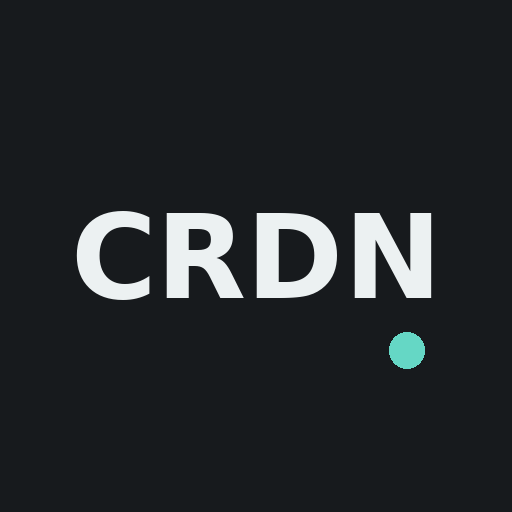
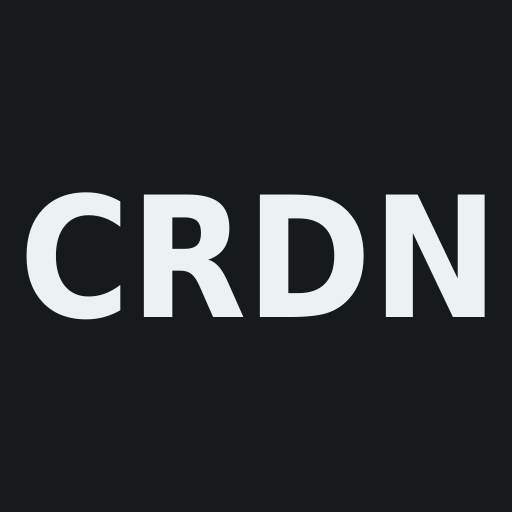
Publish CRDN source snapshot

Changed region(s): [[0.5, 0.375, 0.9688, 0.7188], [0.0312, 0.375, 0.4688, 0.625]]

diff --git a/crdn/web/auth.js b/crdn/web/auth.js
@@ -105,7 +105,7 @@
   document.body.append(notice, dialog);
   const settingsForm = document.createElement('form');
   settingsForm.className = 'auth-form server-settings';
-  settingsForm.innerHTML = '<h3>Название сервера</h3><label>Название сервера<input name="server_name" autocomplete="off" placeholder="До 12 символов"></label><p class="auth-error" role="status"></p><div class="auth-controls"><button type="button" data-later>Позже</button><button type="submit" class="auth-primary">Сохранить</button></div>';
+  settingsForm.innerHTML = '<h3>Название сервера</h3><label>Название сервера<input name="server_name" autocomplete="off" placeholder="До 24 символов" aria-describedby="server-name-status"></label><p id="server-name-status" class="auth-error name-status" role="status"></p><div class="auth-controls"><button type="button" data-later>Позже</button><button type="submit" class="auth-primary">Сохранить</button></div>';
   dialog.insertBefore(settingsForm, dialog.querySelector('.account-section'));
   const themeSection = document.createElement('section');
   themeSection.className = 'settings-section theme-setting';
@@ -114,19 +114,28 @@
   themeSection.querySelectorAll('button').forEach(b => b.onclick = () => { window.crdnApplyTheme(b.dataset.theme); syncTheme(); });
   dialog.insertBefore(themeSection, settingsForm); syncTheme();
   settingsForm.querySelector('[data-later]').onclick = () => dialog.close();
+  const nameInput = settingsForm.elements.server_name;
+  const nameStatus = settingsForm.querySelector('.name-status');
+  function nameError(message) { nameStatus.dataset.state = 'error'; nameStatus.textContent = message; }
+  function updateNameStatus(prefix = '') {
+    const remaining = 24 - [...nameInput.value].length;
+    if (remaining < 0) { nameError('Превышено на ' + (-remaining) + ' символов. Максимум 24.'); return; }
+    nameStatus.dataset.state = 'ready';
+    nameStatus.textContent = prefix + 'Осталось ' + remaining + ' символов';
+  }
+  nameInput.addEventListener('input', () => updateNameStatus());
   settingsForm.onsubmit = async event => {
     event.preventDefault();
-    const status = settingsForm.querySelector('[role="status"]');
     const name = settingsForm.elements.server_name.value;
-    if ([...name].length > 12) { status.textContent = 'Не более 12 символов, включая пробелы.'; return; }
+    if ([...name].length > 24) { nameError('Не более 24 символов, включая пробелы.'); return; }
     const button = settingsForm.querySelector('[type="submit"]'); button.disabled = true;
     try {
       await loadSession();
       const response = await fetch('/api/settings', {method: 'POST', headers: {'Content-Type': 'application/json', 'X-CSRF-Token': state.csrf_token}, body: JSON.stringify({server_name:name})});
       const value = await response.json();
       if (!response.ok) throw Error(value.error || 'Не удалось сохранить название.');
-      window.crdnSetServerName(value.server_name); settingsForm.querySelector('[data-later]').hidden = Boolean(value.server_name); status.textContent = 'Название сохранено.';
-    } catch (failure) { showError(status, failure); }
+      window.crdnSetServerName(value.server_name); nameInput.value = value.server_name; settingsForm.querySelector('[data-later]').hidden = Boolean(value.server_name); updateNameStatus('Название сохранено. ');
+    } catch (failure) { nameError(failure.message || 'Не удалось сохранить название. Повторите попытку.'); }
     finally { button.disabled = false; }
   };
   const form = dialog.querySelector('.account-form'), error = form.querySelector('.auth-error');
@@ -146,9 +155,9 @@
       button.textContent = 'Показать'; button.setAttribute('aria-pressed', 'false');
     }
     error.textContent = '';
-    settingsForm.querySelector('[role="status"]').textContent = '';
+    updateNameStatus();
     try { const r = await fetch('/api/settings', {cache:'no-store'}); if (r.ok) { const name = (await r.json()).server_name; settingsForm.elements.server_name.value = name; settingsForm.querySelector('[data-later]').hidden = Boolean(name); } } catch {}
-    syncTheme(); dialog.showModal();
+    updateNameStatus(); syncTheme(); dialog.showModal();
   }
   function closeAccount() { dialog.close(); form.reset(); error.textContent = ''; }
   notice.querySelector('.auth-close').onclick = dismiss;

diff --git a/crdn/web/index.html b/crdn/web/index.html
@@ -55,7 +55,7 @@
  </section>
  </div>
  <dialog id="check-dialog" class="auth-dialog" aria-labelledby="check-title"><h2 id="check-title">Обновления</h2><p id="update-check-note" role="status"></p><p id="update-channel"></p><button id="check-offer" class="auth-primary" type="button" hidden>Обновить</button><div class="check-actions"><button id="update-check" class="auth-button" type="button">Проверить снова</button><button type="button" data-close>Закрыть</button></div></dialog>
- <dialog id="about-dialog" class="auth-dialog" aria-labelledby="about-title"><h2 id="about-title">CRDN Server Monitor</h2><p id="about-version">Версия: …</p><p>Лёгкая веб-панель мониторинга CPU, RAM, Disk и Network Linux-сервера.</p><p><a href="https://neuroflo.ru/" target="_blank" rel="noopener noreferrer">NEUROFLO</a> · <a href="https://github.com/GreyByDefault/CRDN-PUBLIC" target="_blank" rel="noopener noreferrer">GitHub</a> · <a href="https://neuroflo.ru/crdn/" target="_blank" rel="noopener noreferrer">Инструкция CRDN</a></p><p>Локальный мониторинг · обновление ≈ 2 с</p><p>История 5 минут · только наблюдение</p><button type="button" data-close>Закрыть</button></dialog>
+ <dialog id="about-dialog" class="auth-dialog" aria-labelledby="about-title"><h2 id="about-title">CRDN Server Monitor</h2><p id="about-version">Версия: …</p><p>Лёгкая веб-панель мониторинга CPU, RAM, Disk и Network Linux-сервера.</p><p class="about-links"><a href="https://neuroflo.ru/" target="_blank" rel="noopener noreferrer">NEUROFLO</a><a href="https://github.com/GreyByDefault/CRDN-PUBLIC" target="_blank" rel="noopener noreferrer">GitHub</a><a href="https://neuroflo.ru/crdn/" target="_blank" rel="noopener noreferrer">Инструкция CRDN</a></p><p>Локальный мониторинг · обновление ≈ 2 с</p><p>История 5 минут · только наблюдение</p><button type="button" data-close>Закрыть</button></dialog>
  <dialog id="update-dialog" class="auth-dialog" aria-labelledby="update-title"><h2 id="update-title"></h2><p id="update-versions"></p><section id="release-notes" aria-labelledby="release-notes-title"><h3 id="release-notes-title">Что нового</h3><div id="release-notes-content"></div></section><p>Панель ненадолго перезапустится. Данные входа и настройки сохранятся</p><p id="update-progress" role="status" aria-live="polite"></p><a id="update-login" href="/login" hidden>Войти снова</a><div class="auth-controls"><button id="update-cancel" type="button">Отмена</button><button id="update-confirm" class="auth-primary" type="button">Обновить</button></div></dialog>
  <noscript>Для получения показателей включите JavaScript в браузере.</noscript>
 </main></body></html>

diff --git a/crdn/web/auth.css b/crdn/web/auth.css
@@ -59,3 +59,9 @@
 
 .settings-dialog .theme-setting { display:block; }
 .settings-dialog .auth-controls button, .settings-dialog input { min-height:44px; }
+
+/* A fixed two-line status slot keeps name actions steady while editing. */
+.settings-dialog .server-settings .name-status { display:block; block-size:3.2em; min-block-size:3.2em; overflow:auto; margin:0; font-size:12px; line-height:1.6; color:var(--muted); }
+.settings-dialog .server-settings .name-status[data-state="error"] { color:var(--warning); }
+.about-links { display:flex; flex-wrap:wrap; gap:12px 24px; align-items:baseline; }
+.about-links a { display:inline-block; }

diff --git a/ops/lifecycle.py b/ops/lifecycle.py
@@ -565,10 +565,10 @@ def update_result(state):
 def install(args, content):
     domain = (args.domain or input('Введите домен или поддомен для панели, без https://: ')).strip().lower()
     while True:
-        server_name = input('Название сервера (до 12 символов, включая пробелы): ')
-        if server_name.strip() and len(server_name) <= 12 and not any(unicodedata.category(c).startswith('C') for c in server_name):
+        server_name = input('Название сервера (до 24 символов, включая пробелы): ')
+        if server_name.strip() and len(server_name) <= 24 and not any(unicodedata.category(c).startswith('C') for c in server_name):
             server_name = server_name.strip(); break
-        print('Введите от 1 до 12 символов без управляющих знаков. Название не обрезается.')
+        print('Введите от 1 до 24 символов без управляющих знаков. Название не обрезается.')
     new_account = not (DATA / 'owner.json').exists()
     print('Проверка сервера, домена и веб-сервера…', flush=True)
     # DNS ownership first; fresh hosts cannot yet accept port 80/443 connections.

diff --git a/crdn/settings.py b/crdn/settings.py
@@ -9,8 +9,8 @@ from .auth import AuthError
 
 
 def validate_name(value):
-    if not isinstance(value, str) or len(value) > 12 or any(unicodedata.category(c).startswith('C') for c in value):
-        raise AuthError(400, 'Название: не более 12 символов, без управляющих знаков.')
+    if not isinstance(value, str) or len(value) > 24 or any(unicodedata.category(c).startswith('C') for c in value):
+        raise AuthError(400, 'Название: не более 24 символов, без управляющих знаков.')
     return value.strip()
 
 

diff --git a/README.en.md b/README.en.md
@@ -10,7 +10,7 @@ No Docker, external monitoring services or heavyweight databases.
 
 [GitHub](https://github.com/GreyByDefault/CRDN-PUBLIC) · [Releases](https://github.com/GreyByDefault/CRDN-PUBLIC/releases)
 
-**v1.0.0-rc.15 is a Pre-release. Stable v1.0.0 is not available. From rc.14 with RC updates enabled, use the update button in the header; no reinstallation is needed.**
+**v1.0.0-rc.16 is a Pre-release. Stable v1.0.0 is not available. From rc.15 with RC updates enabled, use the update button in the header; no reinstallation is needed.**
 
 ## What CRDN looks like
 
@@ -36,11 +36,11 @@ CRDN is designed for observing your server. It does not manage system resources 
 
 ### Server name, menu and home screen
 
-The ☰ menu opens Settings, manual update checks, About and Logout. A separate button saves the server name without changing account credentials; the limit is 12 Unicode characters including spaces. The system hostname is unchanged. Names survive updates and rollback; existing installations can set a name in the panel without SSH.
+The ☰ menu opens Settings, manual update checks, About and Logout. A separate button saves the server name without changing account credentials; the limit is 24 Unicode characters including spaces. The system hostname is unchanged. Names survive updates and rollback; existing installations can set a name in the panel without SSH. A persistent line below the input shows the remaining characters or validation result without moving the save button.
 
 Dark is the default theme. Light can be selected in Settings and is saved only in this browser, including the login page. Other devices keep their own choice.
 
-Supported browsers can install CRDN on the home screen using the server name and a stable identity for this origin. Renaming refreshes browser metadata, but launcher-label refresh depends on the browser/OS and may require reinstalling the shortcut. There is no offline monitoring or caching of private data. Installation and appearance on a real phone still require user acceptance.
+Supported browsers can install CRDN on the home screen using the server name and a stable identity for this origin. Renaming refreshes browser metadata, but launcher-label refresh depends on the browser/OS and may require reinstalling the shortcut. The 192/512 and Apple 180 icons contain only large CRDN letters on an opaque square background; the launcher determines their shape. Refreshing an installed icon depends on Android/browser behavior and may require reinstalling the shortcut. There is no offline monitoring or caching of private data. Installation and appearance on a real phone still require user acceptance.
 
 ## 1. What you need for installation
 
@@ -169,19 +169,19 @@ Once connected, you can proceed to CRDN installation.
 Copy the installation command and run it on the server.
 
 ```sh
-bash -o pipefail -c 'curl --silent --show-error --fail --location --proto =https --proto-redir =https https://neuroflo.ru/crdn-files/releases/v1.0.0-rc.15/crdn-bootstrap.sh | sh -s -- install --release v1.0.0-rc.15'
+bash -o pipefail -c 'curl --silent --show-error --fail --location --proto =https --proto-redir =https https://neuroflo.ru/crdn-files/releases/v1.0.0-rc.16/crdn-bootstrap.sh | sh -s -- install --release v1.0.0-rc.16'
 ```
 
-Paste the single line into your SSH session. The bootstrap fetches the complete bundle from the official Release, verifies SHA-256 and runs the existing installer. Execution stops on an HTTPS or checksum error. Domain and sudo password input remain interactive through /dev/tty, even when the loader arrives through a pipe. This command explicitly selects v1.0.0-rc.15; production HTTPS is the default, without ACME staging.
+Paste the single line into your SSH session. The bootstrap fetches the complete bundle from the official Release, verifies SHA-256 and runs the existing installer. Execution stops on an HTTPS or checksum error. Domain and sudo password input remain interactive through /dev/tty, even when the loader arrives through a pipe. This command explicitly selects v1.0.0-rc.16; production HTTPS is the default, without ACME staging.
 
 Once started, the installer:
 
 1. Checks the operating system and server resources.
 2. Checks required programs; installs Caddy or Certbot when needed. Baseline tools listed in section 1 must already be available.
 3. Detects the installed web server: Caddy, Nginx or Apache.
-4. Asks for the domain or subdomain and a server name (up to 12 Unicode characters, including spaces).
+4. Asks for the domain or subdomain and a server name (up to 24 Unicode characters, including spaces).
 5. Checks DNS and the network ports needed for operation.
-6. Downloads CRDN from an official Release: stable by default, or the explicitly selected v1.0.0-rc.15 in the command above.
+6. Downloads CRDN from an official Release: stable by default, or the explicitly selected v1.0.0-rc.16 in the command above.
 7. Installs the application and configures automatic startup.
 8. Connects the dashboard to the web server and configures HTTPS.
 9. Checks the application and displays the dashboard address.
@@ -229,16 +229,16 @@ New versions are published on [GitHub Releases](https://github.com/GreyByDefault
 A separate command is used for updates:
 
 ```sh
-bash -o pipefail -c 'curl --silent --show-error --fail --location --proto =https --proto-redir =https https://neuroflo.ru/crdn-files/releases/v1.0.0-rc.15/crdn-bootstrap.sh | sh -s -- update --release v1.0.0-rc.15 --enable-rc-updates'
+bash -o pipefail -c 'curl --silent --show-error --fail --location --proto =https --proto-redir =https https://neuroflo.ru/crdn-files/releases/v1.0.0-rc.16/crdn-bootstrap.sh | sh -s -- update --release v1.0.0-rc.16 --enable-rc-updates'
 ```
 
-Run the command from any directory. It currently selects rc.15 explicitly; without `--release v1.0.0-rc.15`, the bootstrap uses only the latest stable release and reports an error if none exists.
+Run the command from any directory. It currently selects rc.16 explicitly; without `--release v1.0.0-rc.16`, the bootstrap uses only the latest stable release and reports an error if none exists.
 
-On rc.14 with RC updates enabled, use the header update button. The manual command is for older installations or maintenance and explicitly enables the RC channel (`--enable-rc-updates`). Ordinary installations without this flag accept stable updates only.
+On rc.15 with RC updates enabled, use the header update button. The manual command is for older installations or maintenance and explicitly enables the RC channel (`--enable-rc-updates`). Ordinary installations without this flag accept stable updates only.
 
 Release checks run asynchronously at startup and at most once daily. Open ☰ → “Check for updates” for a rate-limited manual check. GitHub is primary and the mirror is fallback. The update dialog shows stages and the verified result; sign in again after restart. Accepting the request does not mean the update succeeded.
 
-Starting with rc.15, the confirmation dialog shows “What’s new” for the offered version, derived from its release notes. GitHub is primary and the mirror is fallback. Missing descriptions do not block confirmation. An installed rc.14 still uses its previous dialog for the first update to rc.15.
+Starting with rc.15, the confirmation dialog shows “What’s new” for the offered version, derived from its release notes. GitHub is primary and the mirror is fallback. Missing descriptions do not block confirmation.
 
 Updates preserve:
 
@@ -265,7 +265,7 @@ Preliminary versions are installed separately, at the user's explicit choice.
 A separate command is provided to remove the application:
 
 ```sh
-bash -o pipefail -c 'curl --silent --show-error --fail --location --proto =https --proto-redir =https https://neuroflo.ru/crdn-files/releases/v1.0.0-rc.15/crdn-bootstrap.sh | sh -s -- uninstall --release v1.0.0-rc.15'
+bash -o pipefail -c 'curl --silent --show-error --fail --location --proto =https --proto-redir =https https://neuroflo.ru/crdn-files/releases/v1.0.0-rc.16/crdn-bootstrap.sh | sh -s -- uninstall --release v1.0.0-rc.16'
 ```
 
 Run the command from any directory. The release number selects the verified removal tools, not the version of the installation to be removed.
